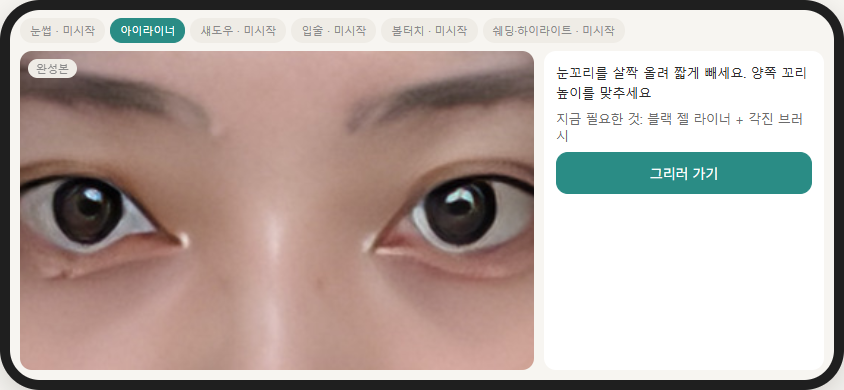
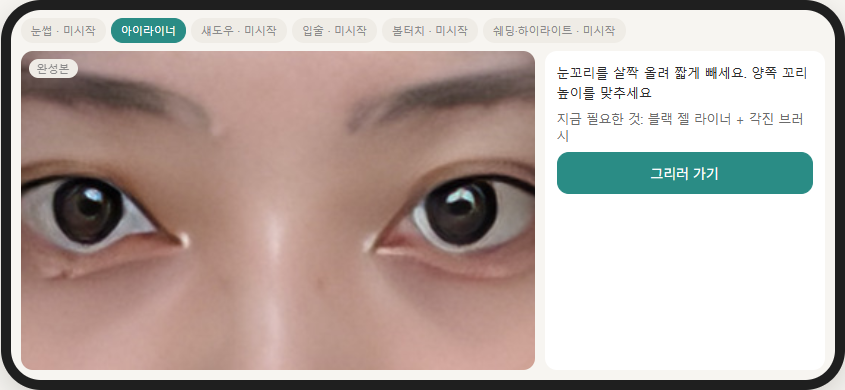
화면 3 POC: README 산술 오류 수정, 진행 칩 가로 스크롤 보정
- 아이라이너 확대율 비교(2.10~3.18배)의 배율 오기(1.9→1.5배)를 고치고,
  부위를 가로지른 비교(1.71~3.18배 → 약 1.9배)는 근거를 밝혀 분리
- render()에서 현재 부위 칩을 .chips 가로 스크롤 안으로 들여와
  세로 폰(390px)에서 6번째 칩(쉐딩·하이라이트)이 화면 밖으로
  밀리는 문제 수정. 페이지 전체 스크롤에는 영향 없음(scrollY 불변 확인)
- contour-round.png 재촬영(현재 칩 노출), liner-landscape.png·
  lip-portrait.png는 회귀 없음 확인 후 재촬영

diff --git a/poc/screen3/app.js b/poc/screen3/app.js
@@ -139,6 +139,10 @@ function render() {
     const crop = drawCrop($('cvShot'), shot, state.partId);
     if (state.partId === 'contour') drawContour($('cvShot'), shot, crop, state.faceShape);
   }
+
+  // 칩 6개가 좁은 폰 화면에 다 안 들어갈 수 있으므로, 현재 부위 칩을 가로 스크롤 안으로 들여온다.
+  // block:'nearest' 는 .chips(overflow-x:auto) 안에서만 스크롤시키고 페이지 전체는 움직이지 않는다.
+  phone.querySelector('.chip.current')?.scrollIntoView({ block: 'nearest', inline: 'center' });
 }
 
 function toast(msg) {

diff --git a/poc/screen3/README.md b/poc/screen3/README.md
@@ -57,7 +57,7 @@ cd C:/Users/hi/Desktop/support-yr-makeup && python -m http.server 8000
 
 샘플 20장은 모두 같은 촬영 조건이다 — 3:4 세로 셀카, 1080×1440, 얼굴이 프레임 중앙, AI 생성 인물. 이 조건을 벗어나면(사용자가 카메라에 더 가까이/멀리 서거나, 얼굴이 프레임 중앙을 벗어나거나, 셀카 종횡비가 다르면) 결과가 달라질 수 있다.
 
-확대율 자체도 사람마다 꽤 벌어진다 — 예를 들어 아이라이너 단계는 같은 `SIDE_MARGIN=0.15` 가정값으로도 사람에 따라 2.10~3.18배로 **약 1.9배** 차이가 난다(눈 사이 간격·얼굴 크기 개인차 때문). 세로 부위는 `PORTRAIT_ZOOM`을 고정 배수로 두므로 이 차이가 크롭 박스 크기(=화질 손실)로는 드러나지 않지만, 가로 부위(눈썹·아이라이너·섀도우)는 사람마다 확대율이 달라진다는 점은 문서에 남겨 둘 만하다.
+확대율 자체도 사람마다 꽤 벌어진다 — 예를 들어 아이라이너 단계는 같은 `SIDE_MARGIN=0.15` 가정값으로도 사람에 따라 2.10~3.18배로 **약 1.5배**(3.18/2.10) 차이가 난다(눈 사이 간격·얼굴 크기 개인차 때문). 부위를 가로질러 보면 차이는 더 커서, 눈썹·섀도우의 최소 1.71배부터 아이라이너의 최대 3.18배까지 **약 1.9배**(3.18/1.71) 차이가 난다. 세로 부위는 `PORTRAIT_ZOOM`을 고정 배수로 두므로 이 차이가 크롭 박스 크기(=화질 손실)로는 드러나지 않지만, 가로 부위(눈썹·아이라이너·섀도우)는 사람마다 확대율이 달라진다는 점은 문서에 남겨 둘 만하다.
 
 **요약**: 스펙 12절의 "`covered` 100%" 기준을 유지해도 된다는 근거가 이번 실측으로 생겼다. 다만 이 근거는 "같은 조건의 셀카 20장"이라는 좁은 샘플에 기반하므로, 실기기 검증(문서 미정 항목의 "1주차 실기기 검증 7항목")에서 다른 촬영 조건(비대칭 구도, 다른 종횡비 업로드 등)을 마주치면 재확인이 필요하다.
 
